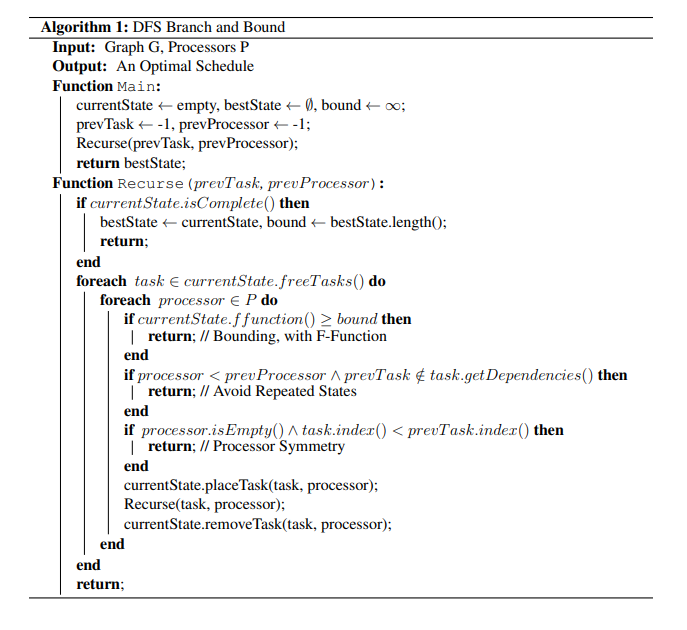
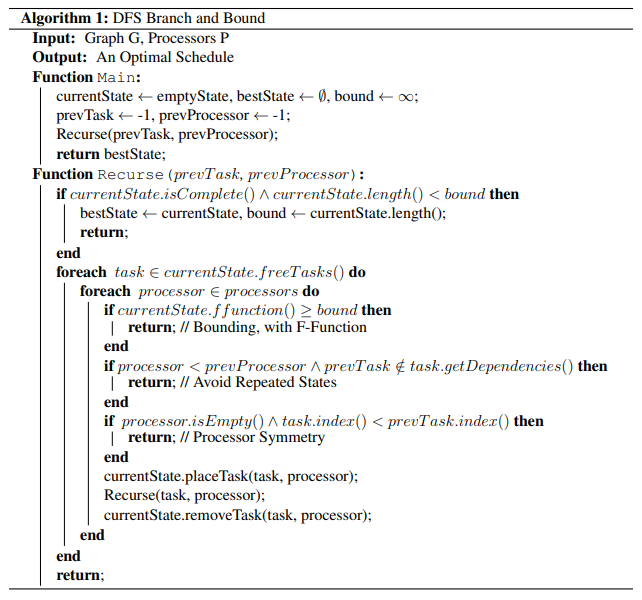
Updated algorithm wiki

Changed region(s): [[0.0312, 0.0, 0.9657, 0.99]]

diff --git a/wiki/Algorithm.md b/wiki/Algorithm.md
@@ -1,17 +1,52 @@
-# Architecture & Class Structure
+# Algorithm
 
-The algorithm of choice for this program is DFS Branch & Bound. This involves a DFS search that also uses a pruning/bounding method to avoid searching through sub-trees unnecesarily.
+Finding an optimal schedule is a NP-hard problem. The application requires an algorithm that can efficiently search through an exponential state space tree.
 
-## Pruning With F-Function
+## Algorithms Characteristics
 
+### A-Star
+A-Star is an algorithm that searches the state tree. The algorithm explores the node with the best heuristic value, and stores visited states. 
+
+**Advantages**: Does not explore past the optimal solution.  
+**Disadvantages**: Exponential memory usage.
+
+### DFS Branch and Bound
+DFS Branch and Bound uses DFS to explore the search tree. However, once an optimal solution of cost k is found, the DFS will no longer explore in any nodes with cost >= k.
+
+**Advantages**: Linear memory.  
+**Disadvantages**: Can explore very deep into the tree before finding some solution.
+
+### Iterative Deepening A-Star
+Iterative Deepening A-Star is similar to DFS Branch and Bound, but the bound is explicitly defined. The bound begins at cost 0, and increments. Once a solution can be found with bound k, that must be the optimal solution, since there is no solution with bound < k.
+
+**Advantages**: Does not explore past the optimal solution, linear memory.  
+**Disadvantages**: Re-visits early nodes multiple times.
+
+### Algorithm Choice
+The application will use DFS Branch and Bound (DFSBB) for its linear memory usage.
+
+## Pruning
+Due to the exponential size of the search space, if the algorithm is able to recognise that some subtree will not produce an optimal solution, it should terminate immediately.
+
+### F-Function
 The F-Function uses 2 heuristics to decide whether or not to prune a branch.
 
 Firstly, a load-balanced time is found for the current schedule. This is calculated by taking the sum of end times for each processor, plus the sum of the weights of unassigned tasks, and dividing this total by the number of processors.
 
 `loadBalancedTime = (sumOfProcessorEndTimes + sumOfUnassignedTaskWeights) / numProcessors`
 
-The load-balanced time was compared to the current end time for the partial schedule. The maximum out of the two was the output of the F-Function for that schedule.
+The second F-Function is the total length of the partial schedule.
+
+### Processor Symmetry + Repeated States
+The DFS algorithm encounters some partial schedules multiple times and consequently unnecessarily searches the subtree. By recognising when these states are repeated, the algorithm improves in overall efficiency.
 
 ## Pseudocode
-
 ![Algorithm Pseudocode](images/algo-pseudocode.png)
+
+## Parallelisation
+The algorithm is parallelised with a recursive strategy: if there is a thread that is free, let the thread handle the subtree and return. 
+
+However, thread creation and management has an overhead. A constraint is added so that threads can only be made if they are at most halfway full. 
+
+## Parallelisation Pseudocode
+![Parallelisation Pseudocode](images/parallel-pseudocode.png)
